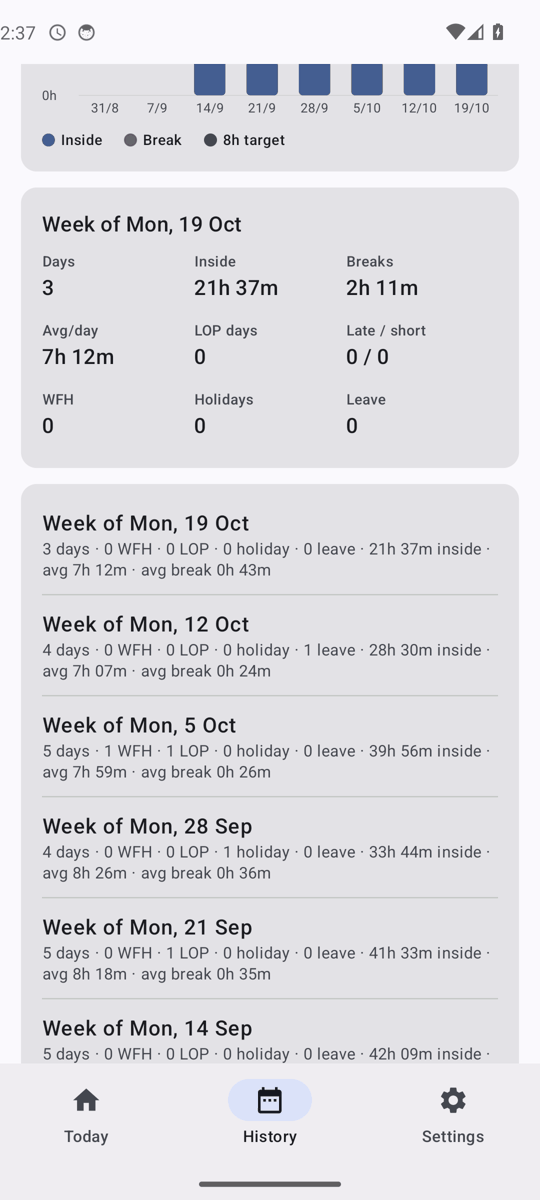
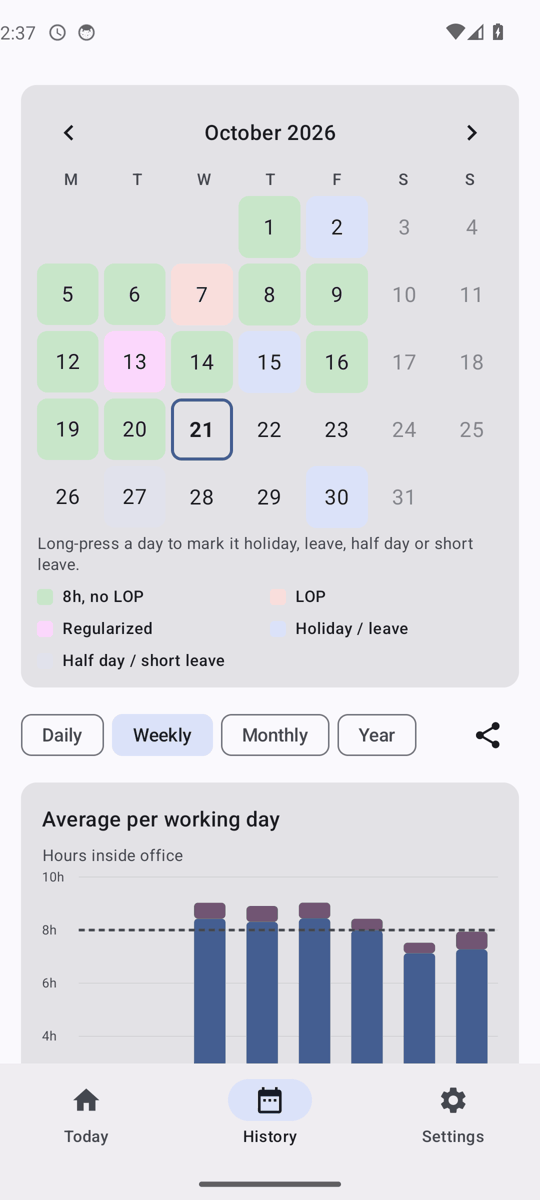
Use the best screenshots from the emulator runs
Claude-Session: https://claude.ai/code/session_01L7iFqPrUUqxg9sDN92rjBW

diff --git a/docs/user-guide.md b/docs/user-guide.md
@@ -325,7 +325,7 @@ to be back (and your planned break length). It shows on the lock screen, even on
 notifications there, so you can check the time left without unlocking. Its **Start break**, **End
 break** and **Log out** buttons work from the lock screen without opening the app.
 
-![Status notification](screenshots/notification-status.png)
+![Status notification during a 15-minute planned break](screenshots/notification-status.png)
 
 **Reminders** (each can be turned off in Settings):
 
@@ -336,8 +336,6 @@ break** and **Log out** buttons work from the lock screen without opening the ap
 | Long break | 5 minutes before your break allowance runs out, and again when it does |
 | Planned break ending | A pop-up alert with an **End break** button, 2 minutes (adjustable) before the break length you picked runs out, and again when it does |
 | Month summary | On the 1st at 10:00 AM: for the month just ended, days that met 8h, LOP days, regularized days and total hours |
-
-![Planned break alert](screenshots/notification-break-ending.png)
 
 The reminders are a few one-off alarms. The app does no other work in the background, so it doesn't
 drain the battery.
